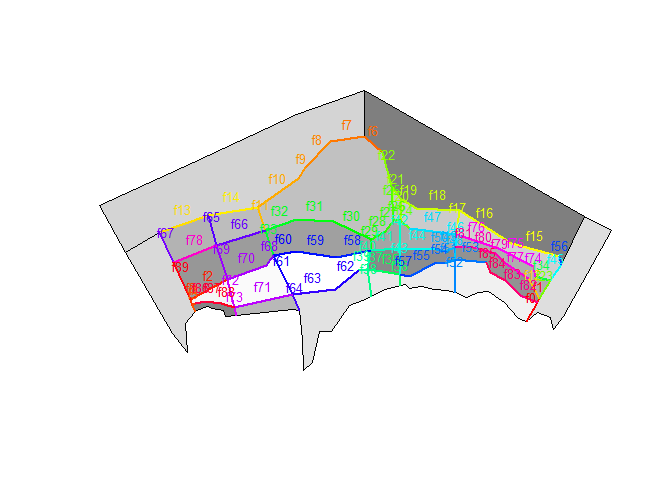
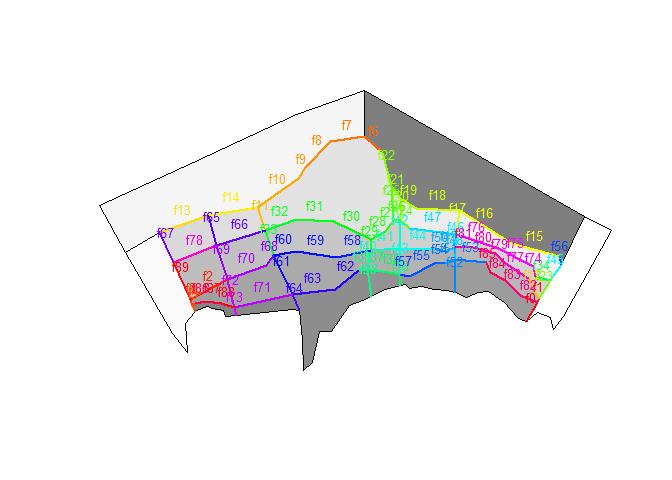
new boundarySpatial function

Changed region(s): [[0.1562, 0.1875, 0.9062, 0.7812]]

diff --git a/README.md b/README.md
@@ -39,10 +39,10 @@ plot(boxSpatial(bgm), col = grey(seq(0, 1, length = nrow(bgm$boxes)), alpha = 0.
 #> features    : 28 
 #> extent      : -1991376, 1840092, -1049317, 1042354  (xmin, xmax, ymin, ymax)
 #> coord. ref. : +proj=laea +lat_0=-63 +lon_0=82 +x_0=0 +y_0=0 +datum=WGS84 +units=m +no_defs +ellps=WGS84 +towgs84=0,0,0 
-#> variables   : 9
-#> names       : label, nconn,  botz,         area, vertmix, horizmix,    insideX,    insideY, .bx0 
-#> min values  :  Box0,     3, -2120,  12850972822,   0e+00,        0, -1128926.5, -135019.93,    0 
-#> max values  :  Box9,    13,  -499, 823802623354,   1e-05,        1,  1521521.9,  387882.74,   27
+#> variables   : 10
+#> names       : label, nconn,  botz,         area, vertmix, horizmix,    insideX,    insideY, .bx0, boundary 
+#> min values  :  Box0,     3, -2120,  12850972822,   0e+00,        0, -1128926.5, -135019.93,    0,     TRUE 
+#> max values  :  Box9,    13,  -499, 823802623354,   1e-05,        1,  1521521.9,  387882.74,   27,    FALSE
 (sldf <- faceSpatial(bgm))
 #> class       : SpatialLinesDataFrame 
 #> features    : 90 
@@ -53,13 +53,21 @@ plot(boxSpatial(bgm), col = grey(seq(0, 1, length = nrow(bgm$boxes)), alpha = 0.
 #> min values  : -0.027850857, -0.0433564821,       0,        0,  28877.31,    0, face0 
 #> max values  :  0.999999619,  0.9999999938,      27,       25, 456745.20,   89, face9
 text(coordinates(spdf), labels = spdf$label, col = grey(seq(1, 0, length = nrow(bgm$boxes))), cex = 0.8)
+## isolate boxes that are outside the boundary
+
+## just get a single boundary for the inner
+plot(boundarySpatial(bgm), border = "dodgerblue", lwd = 7, add = TRUE)
+## or subset the boundary boxes
+plot(subset(spdf, boundary), border = "firebrick", lwd = 3, add = TRUE)
 ```
 
 ![](figure/README-unnamed-chunk-3-1.png)<!-- -->
 
 ``` r
 
+
 plot(boxSpatial(bgm), col = grey(seq(0, 1, length = nrow(bgm$boxes)), alpha = 0.5))
+
 
 plot(sldf, col = rainbow(nrow(sldf)), lwd = 2,  add = TRUE)
 text(do.call(rbind, lapply(coordinates(sldf), function(x) apply(x[[1]], 2, mean))), 
